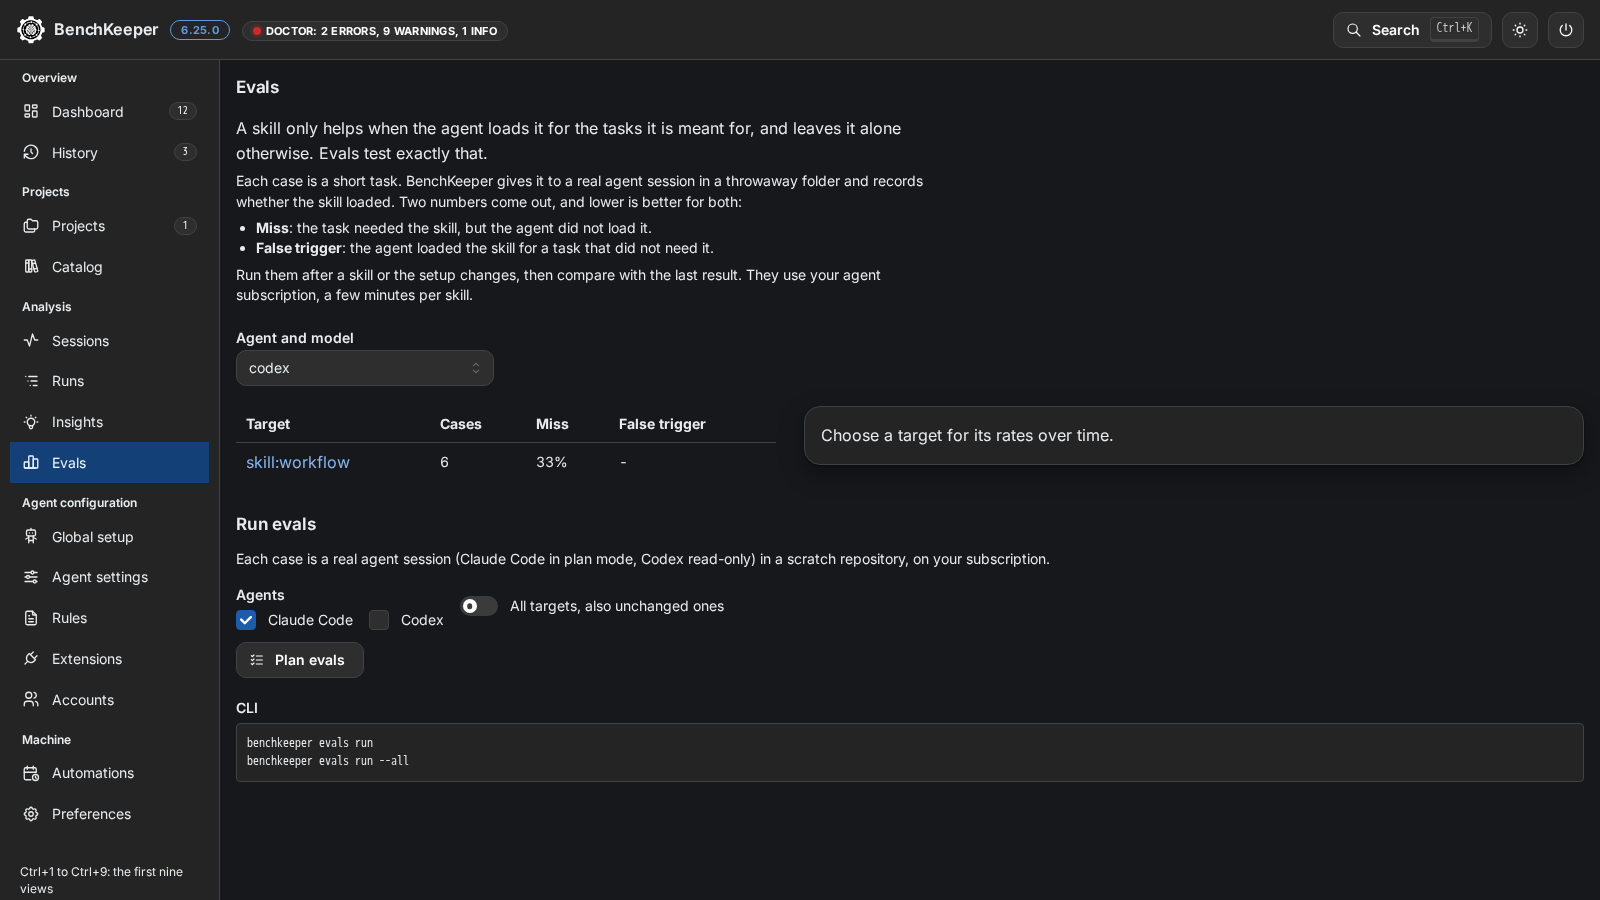
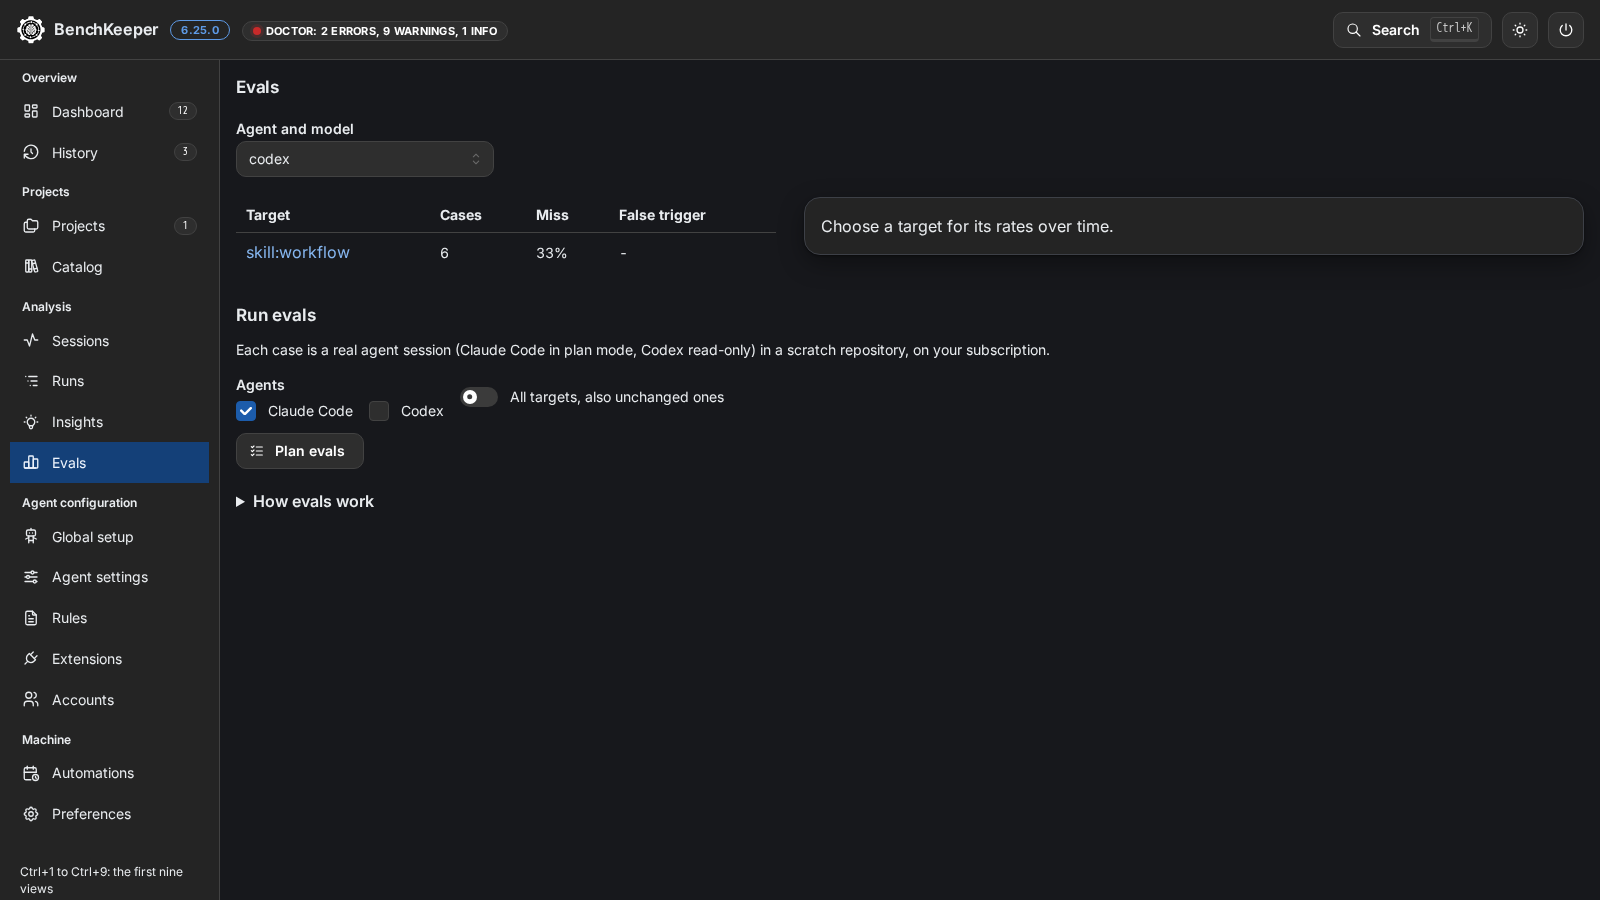
feat(app): show eval results first and fold how evals work with the CLI (#819)
The Evals view opens with the agent and model picker, the rates per target and
the targets table. The explanation of miss and false trigger and the CLI block
move into a closed "How evals work" section below Run evals. Planning and
running evals work as before.

Refs #804

diff --git a/app/ui/evals.jsx b/app/ui/evals.jsx
@@ -116,15 +116,6 @@ export function Evals({ params }) {
   const open = params.get('target');
   return (
     <Stack gap="lg">
-      <Stack gap={6} maw={720}>
-        <Text>A skill only helps when the agent loads it for the tasks it is meant for, and leaves it alone otherwise. Evals test exactly that.</Text>
-        <Text size="sm">Each case is a short task. BenchKeeper gives it to a real agent session in a throwaway folder and records whether the skill loaded. Two numbers come out, and lower is better for both:</Text>
-        <List size="sm">
-          <List.Item><b>Miss</b>: the task needed the skill, but the agent did not load it.</List.Item>
-          <List.Item><b>False trigger</b>: the agent loaded the skill for a task that did not need it.</List.Item>
-        </List>
-        <Text size="sm">Run them after a skill or the setup changes, then compare with the last result. They use your agent subscription, a few minutes per skill.</Text>
-      </Stack>
       <Loading state={evals} label="eval results">{(all) => {
         if (!all.length) return <Text>No eval results yet: plan and run them below.</Text>;
         // Rates of different agents and models do not compare: one of them at a time, the newest by default.
@@ -159,7 +150,22 @@ export function Evals({ params }) {
         );
       }}</Loading>
       <RunEvals onDone={evals.reload} />
-      <Cli>{`benchkeeper evals run${open ? ` --target ${open}` : ''}\nbenchkeeper evals run --all`}</Cli>
+      {/* Reference, not status: folded until opened. */}
+      <details>
+        <summary><Text component="span" fw={600}>How evals work</Text></summary>
+        <Stack gap="lg" mt="md">
+          <Stack gap={6} maw={720}>
+            <Text>A skill only helps when the agent loads it for the tasks it is meant for, and leaves it alone otherwise. Evals test exactly that.</Text>
+            <Text size="sm">Each case is a short task. BenchKeeper gives it to a real agent session in a throwaway folder and records whether the skill loaded. Two numbers come out, and lower is better for both:</Text>
+            <List size="sm">
+              <List.Item><b>Miss</b>: the task needed the skill, but the agent did not load it.</List.Item>
+              <List.Item><b>False trigger</b>: the agent loaded the skill for a task that did not need it.</List.Item>
+            </List>
+            <Text size="sm">Run them after a skill or the setup changes, then compare with the last result. They use your agent subscription, a few minutes per skill.</Text>
+          </Stack>
+          <Cli>{`benchkeeper evals run${open ? ` --target ${open}` : ''}\nbenchkeeper evals run --all`}</Cli>
+        </Stack>
+      </details>
     </Stack>
   );
 }

diff --git a/web/src/components/AppPage.tsx b/web/src/components/AppPage.tsx
@@ -100,7 +100,7 @@ export const VIEWS: { id: string; view: string; title: string; shot: string; alt
   },
   {
     id: 'evals', view: 'evals', title: 'Evals', shot: 'evals',
-    alt: 'The Evals view: what miss and false trigger mean, the agent and model picker, the table of eval targets with cases, miss and false trigger rates, and the Run evals form with the agents to use and the Plan evals button.',
+    alt: 'The Evals view: the agent and model picker, the table of eval targets with cases, miss and false trigger rates, the Run evals form with the agents to use and the Plan evals button, and the folded How evals work section.',
     text: [
       'An eval case is a short task that a real agent session gets in a throwaway folder; the result records whether the skill loaded. Miss counts the tasks that needed the skill when it did not load, false trigger the tasks that did not need it when it loaded. Lower is better for both.',
       'Each target shows its latest rates and, when you pick it, its rates over time. Plan lists the targets changed since their last result and the sessions they start; nothing runs before Start. Evals use your agent subscription and never run in CI.',
